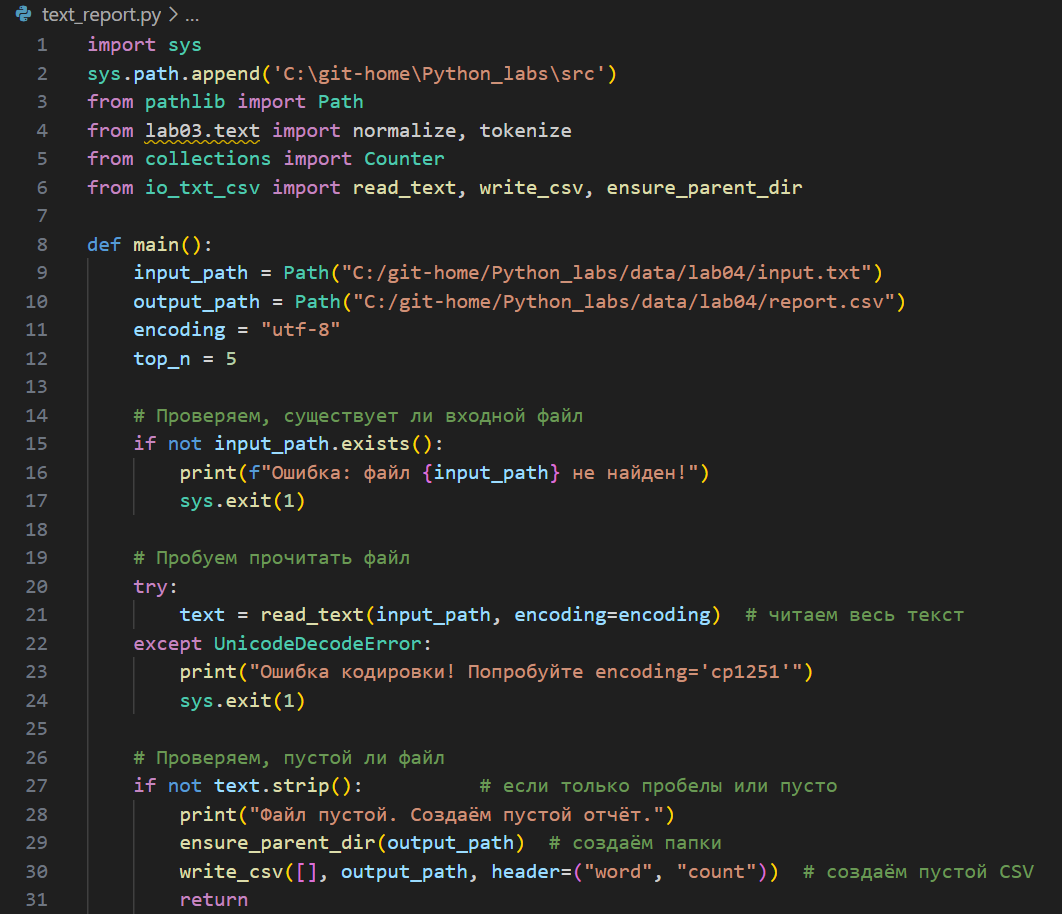
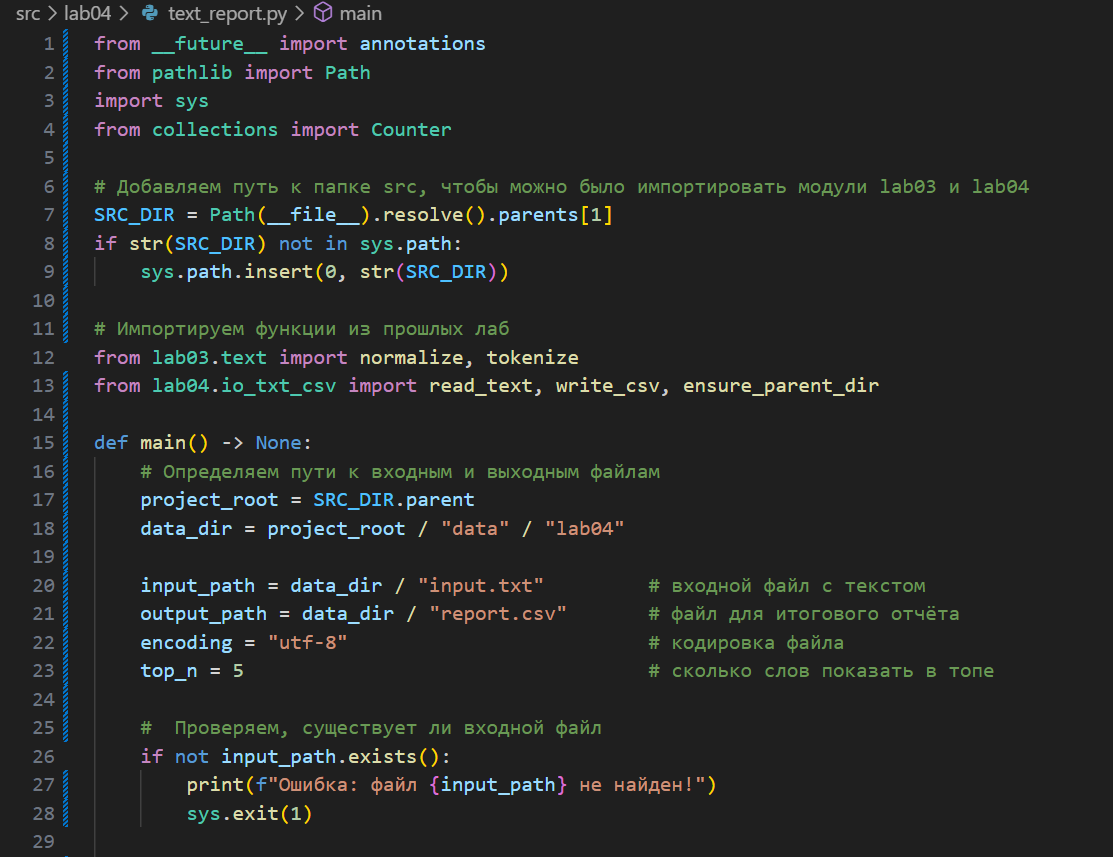
исправила ошибки в 4 лабе

Changed region(s): [[0.0, 0.0, 0.9322, 1.0], [0.1243, 0.8191, 0.9633, 1.0], [0.6215, 0.4247, 0.7768, 0.4551]]

diff --git a/src/lab04/text_report.py b/src/lab04/text_report.py
@@ -1,58 +1,69 @@
-import sys   
-sys.path.append('C:\git-home\Python_labs\src')               
-from pathlib import Path   
+from __future__ import annotations
+from pathlib import Path
+import sys
+from collections import Counter
+
+# Добавляем путь к папке src, чтобы можно было импортировать модули lab03 и lab04
+SRC_DIR = Path(__file__).resolve().parents[1]
+if str(SRC_DIR) not in sys.path:
+    sys.path.insert(0, str(SRC_DIR))
+
+# Импортируем функции из прошлых лаб
 from lab03.text import normalize, tokenize  
-from collections import Counter           
-from io_txt_csv import read_text, write_csv, ensure_parent_dir 
+from lab04.io_txt_csv import read_text, write_csv, ensure_parent_dir
 
-def main():
-    input_path = Path("C:/git-home/Python_labs/data/lab04/input.txt")    
-    output_path = Path("C:/git-home/Python_labs/data/lab04/report.csv") 
-    encoding = "utf-8"                     
-    top_n = 5                             
+def main() -> None:
+    # Определяем пути к входным и выходным файлам
+    project_root = SRC_DIR.parent
+    data_dir = project_root / "data" / "lab04"
 
-    # Проверяем, существует ли входной файл
+    input_path = data_dir / "input.txt"         # входной файл с текстом
+    output_path = data_dir / "report.csv"       # файл для итогового отчёта
+    encoding = "utf-8"                          # кодировка файла
+    top_n = 5                                   # сколько слов показать в топе
+
+    #  Проверяем, существует ли входной файл 
     if not input_path.exists():
-        print(f"Ошибка: файл {input_path} не найден!")  
-        sys.exit(1)                                     
-
-    # Пробуем прочитать файл 
-    try:
-        text = read_text(input_path, encoding=encoding)  # читаем весь текст
-    except UnicodeDecodeError:
-        print("Ошибка кодировки! Попробуйте encoding='cp1251'")  
+        print(f"Ошибка: файл {input_path} не найден!")
         sys.exit(1)
 
-    # Проверяем, пустой ли файл
-    if not text.strip():          # если только пробелы или пусто
-        print("Файл пустой. Создаём пустой отчёт.")
-        ensure_parent_dir(output_path)  # создаём папки
-        write_csv([], output_path, header=("word", "count"))  # создаём пустой CSV
-        return  
+    #  Пробуем прочитать файл 
+    try:
+        text = read_text(input_path, encoding=encoding)    # читаем весь текст
+    except UnicodeDecodeError:
+        print("Ошибка кодировки! Попробуйте encoding='cp1251'")
+        sys.exit(1)
 
-    # Нормализация и токенизация текста 
-    tokens = tokenize(normalize(text))  # приводим к нижнему регистру и разбиваем на слова
+    #  Проверяем, не пустой ли файл 
+    if not text.strip():                    # если только пробелы или пусто
+        print("Файл пустой. Создаём пустой отчёт.")
+        ensure_parent_dir(output_path)      # создаём папку, если её нет
+        write_csv([], output_path, header=("word", "count"))  # создаём пустой CSV
+        return
+
+    #  Нормализация текста 
+    tokens = tokenize(normalize(text))      # приводим к нижнему регистру и разбиваем на слова
 
     #  Подсчёт частот 
-    freq = Counter(tokens)  # получаем словарь: слово -> количество
+    freq = Counter(tokens)                  # получаем словарь: {слово: количество}
 
-    # Сортировка слов: сначала по частоте, потом по слову 
+    #  Сортировка слов: сначала по частоте, потом по алфавиту
     sorted_items = sorted(freq.items(), key=lambda kv: (-kv[1], kv[0]))
 
-    # Сохраняем результат в CSV 
-    ensure_parent_dir(output_path)  # создаём папку, если нет
+    #  Сохраняем результат в CSV 
+    ensure_parent_dir(output_path)          # создаём папку, если нет
     write_csv(sorted_items, output_path, header=("word", "count"))
 
-    # Выводим короткую сводку в консоль 
-    total = sum(freq.values())          # всего слов
-    unique = len(freq)                  # уникальных слов
-    top_words = sorted_items[:top_n]    # первые N слов
+    # Выводим результат в консоль
+    total = sum(freq.values())              # всего слов
+    unique = len(freq)                      # уникальных слов
+    top_words = sorted_items[:top_n]        # первые N слов
 
     print(f"Всего слов: {total}")
     print(f"Уникальных слов: {unique}")
     print(f"Топ-{top_n}:")
     for w, c in top_words:
         print(f"  {w}: {c}")
-        
+
 if __name__ == "__main__":
     main()

diff --git a/src/lab04/test_io_txt_csv.py b/src/lab04/test_io_txt_csv.py
@@ -1,58 +1,44 @@
-import sys   
-sys.path.append('C:\git-home\Python_labs\src')               
-from pathlib import Path   
-from lab03.text import normalize, tokenize  
-from collections import Counter           
-from io_txt_csv import read_text, write_csv, ensure_parent_dir 
+from __future__ import annotations
+from pathlib import Path
+import sys
 
-def main():
-    input_path = Path("C:/git-home/Python_labs/data/lab04/input.txt")    
-    output_path = Path("C:/git-home/Python_labs/data/lab04/report.csv") 
-    encoding = "utf-8"                     
-    top_n = 5                             
+# Добавляем в sys.path путь к src, чтобы можно было импортировать lab04
+SRC_DIR = Path(__file__).resolve().parents[1]
+if str(SRC_DIR) not in sys.path:
+    sys.path.insert(0, str(SRC_DIR))
 
-    # Проверяем, существует ли входной файл
-    if not input_path.exists():
-        print(f"Ошибка: файл {input_path} не найден!")  
-        sys.exit(1)                                     
+from lab04.io_txt_csv import read_text, write_csv
 
-    # Пробуем прочитать файл 
-    try:
-        text = read_text(input_path, encoding=encoding)  # читаем весь текст
-    except UnicodeDecodeError:
-        print("Ошибка кодировки! Попробуйте encoding='cp1251'")  
-        sys.exit(1)
+def main() -> None:
+    # Определяем путь к корню проекта и к папке с данными
+    project_root = SRC_DIR.parent
+    data_dir = project_root / "data" / "lab04"
 
-    # Проверяем, пустой ли файл
-    if not text.strip():          # если только пробелы или пусто
-        print("Файл пустой. Создаём пустой отчёт.")
-        ensure_parent_dir(output_path)  # создаём папки
-        write_csv([], output_path, header=("word", "count"))  # создаём пустой CSV
-        return  
+    #  Проверка функции read_text 
+    print("Тест 1. Чтение текста")
+    text = read_text(data_dir / "input.txt")        # читаем содержимое файла
+    print("Тип результата:", type(text))            # выводим тип результата
+    print("Длина текста:", len(text))               # длина считанного текста
+    print("Первые 100 символов текста:")            # покажем кусочек текста
+    print(text[:100])                               # выводим первые 100 символов
 
-    # Нормализация и токенизация текста 
-    tokens = tokenize(normalize(text))  # приводим к нижнему регистру и разбиваем на слова
+    # Проверка функции write_csv 
+    print("Тест 2. Запись CSV")
 
-    #  Подсчёт частот 
-    freq = Counter(tokens)  # получаем словарь: слово -> количество
+    # Пример данных для записи
+    rows = [("word", 3), ("test", 5), ("python", 2)]
 
-    # Сортировка слов: сначала по частоте, потом по слову 
-    sorted_items = sorted(freq.items(), key=lambda kv: (-kv[1], kv[0]))
+    # Заголовки CSV
+    header = ("word", "count")
 
-    # Сохраняем результат в CSV 
-    ensure_parent_dir(output_path)  # создаём папку, если нет
-    write_csv(sorted_items, output_path, header=("word", "count"))
+    # Путь, куда сохраним файл
+    output_path = data_dir / "check.csv"
 
-    # Выводим короткую сводку в консоль 
-    total = sum(freq.values())          # всего слов
-    unique = len(freq)                  # уникальных слов
-    top_words = sorted_items[:top_n]    # первые N слов
+    # Записываем CSV
+    write_csv(rows, output_path, header=header)
 
-    print(f"Всего слов: {total}")
-    print(f"Уникальных слов: {unique}")
-    print(f"Топ-{top_n}:")
-    for w, c in top_words:
-        print(f"  {w}: {c}")
-        
+    # Выводим сообщение об успешном создании
+    print(f"Файл {output_path} успешно создан!")
+
 if __name__ == "__main__":
     main()

diff --git a/src/lab04/io_txt_csv.py b/src/lab04/io_txt_csv.py
@@ -1,30 +1,56 @@
-from io_txt_csv import read_text, write_csv
+from __future__ import annotations
 from pathlib import Path
+import csv
+from typing import Iterable, Sequence, Optional, Tuple
 
-# Проверка функции read_text 
-print("Тест 1. Чтение текста ")
-text = read_text("../data/lab04/input.txt")
-print("Тип результата:", type(text))        
-print("Длина текста:", len(text))        
-print("Первые 100 символов текста:")
-print(text[:100])                           # покажем кусочек текста
+def read_text(path: str | Path, encoding: str = "utf-8") -> str:
+    p = Path(path)                              # создаём объект пути
+    # читаем содержимое файла в строку, используя указанную кодировку
+    return p.read_text(encoding=encoding)
 
-# Проверка функции write_csv 
-print("Тест 2. Запись CSV ")
+def write_csv(
+    rows: list[tuple[str, int]] | list[tuple[str, str]], #список строк таблицы 
+    path: str | Path, #путь, куда сохраняем csv-файл
+    header: tuple[str, str] = ("word", "count"), #заголовки столбцов (1 строка csv)
+    encoding: str = "utf-8",
+) -> None:
+    p = Path(path) #путь преобраз. в объект 
 
-# Пример данных для записи
-rows = [("word", 3), ("test", 5), ("python", 2)]
+    # Преобразуем переданные данные в список
+    rows = list(rows)
 
-# Заголовки CSV
-header = ("word", "count")
+    # Проверяем, что все строки одинаковой длины
+    if rows:  # если список не пустой
+        row_len = len(rows[0])  # длина первой строки
+        for r in rows:
+            if len(r) != row_len:
+                raise ValueError("Все строки должны быть одинаковой длины!")
 
-# Путь, куда сохраним файл
-output_path = Path("../data/lab04/check.csv")
+    # Открываем файл для записи
+    with p.open("w", newline="", encoding=encoding) as f:
+        w = csv.writer(f)  # создаём writer для CSV
 
-# Записываем CSV
-write_csv(rows, output_path, header=header)
+        # если есть header — записываем его
+        if header is not None:
+            w.writerow(header)
 
-print(f"Файл {output_path} успешно создан!")
+        # записываем все строки по очереди
+        for r in rows:
+            w.writerow(r)
+
+def ensure_parent_dir(path: str | Path) -> None:
+    p = Path(path)
+    parent = p.parent                          # получаем родительскую папку
+    parent.mkdir(parents=True, exist_ok=True)  # создаём, если нет
+
+if __name__ == "__main__":
+    # Мини-тест (создаёт io_txt_csv_demo.csv рядом)
+    demo_csv = Path(__file__).resolve().with_name("io_txt_csv_demo.csv")
+    write_csv([("hello", 2), ("world", 3)], demo_csv)
+    print(f"CSV записан: {demo_csv}")
+
+
+
 
 
 
